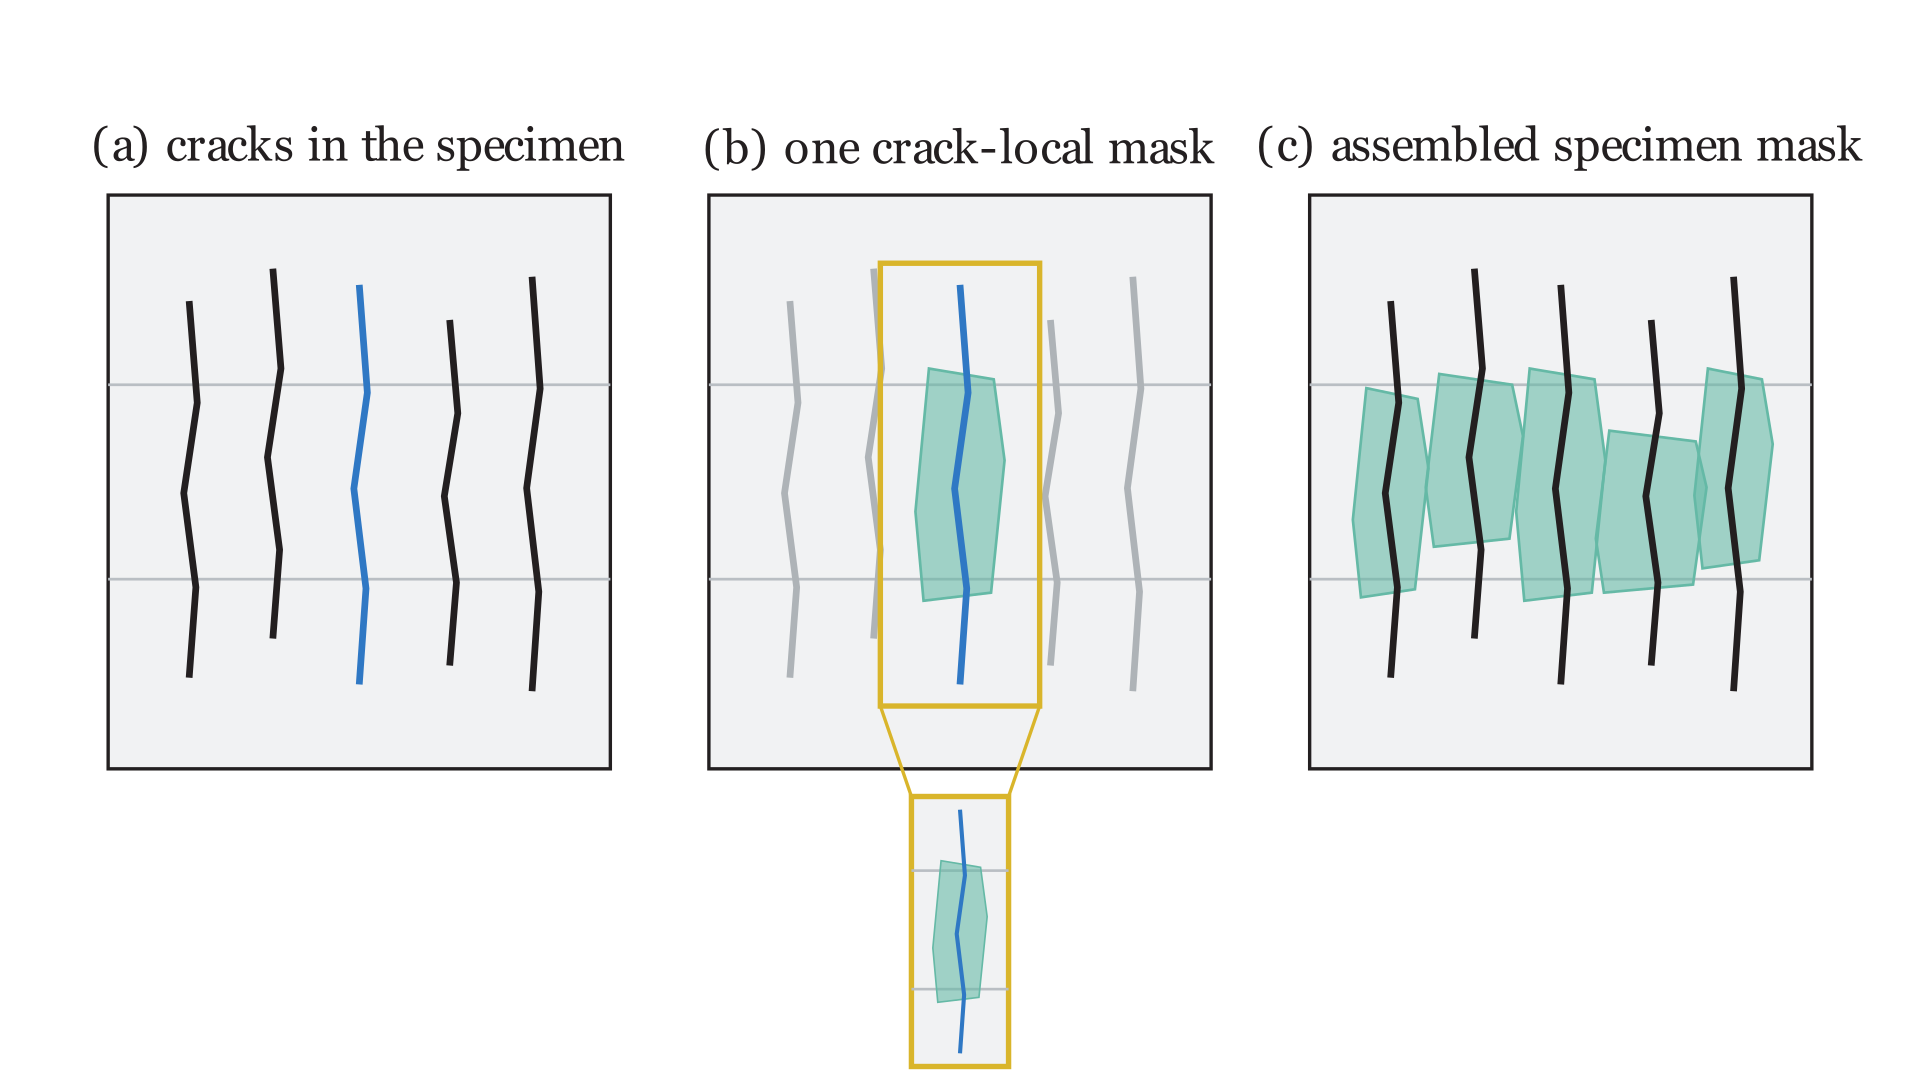
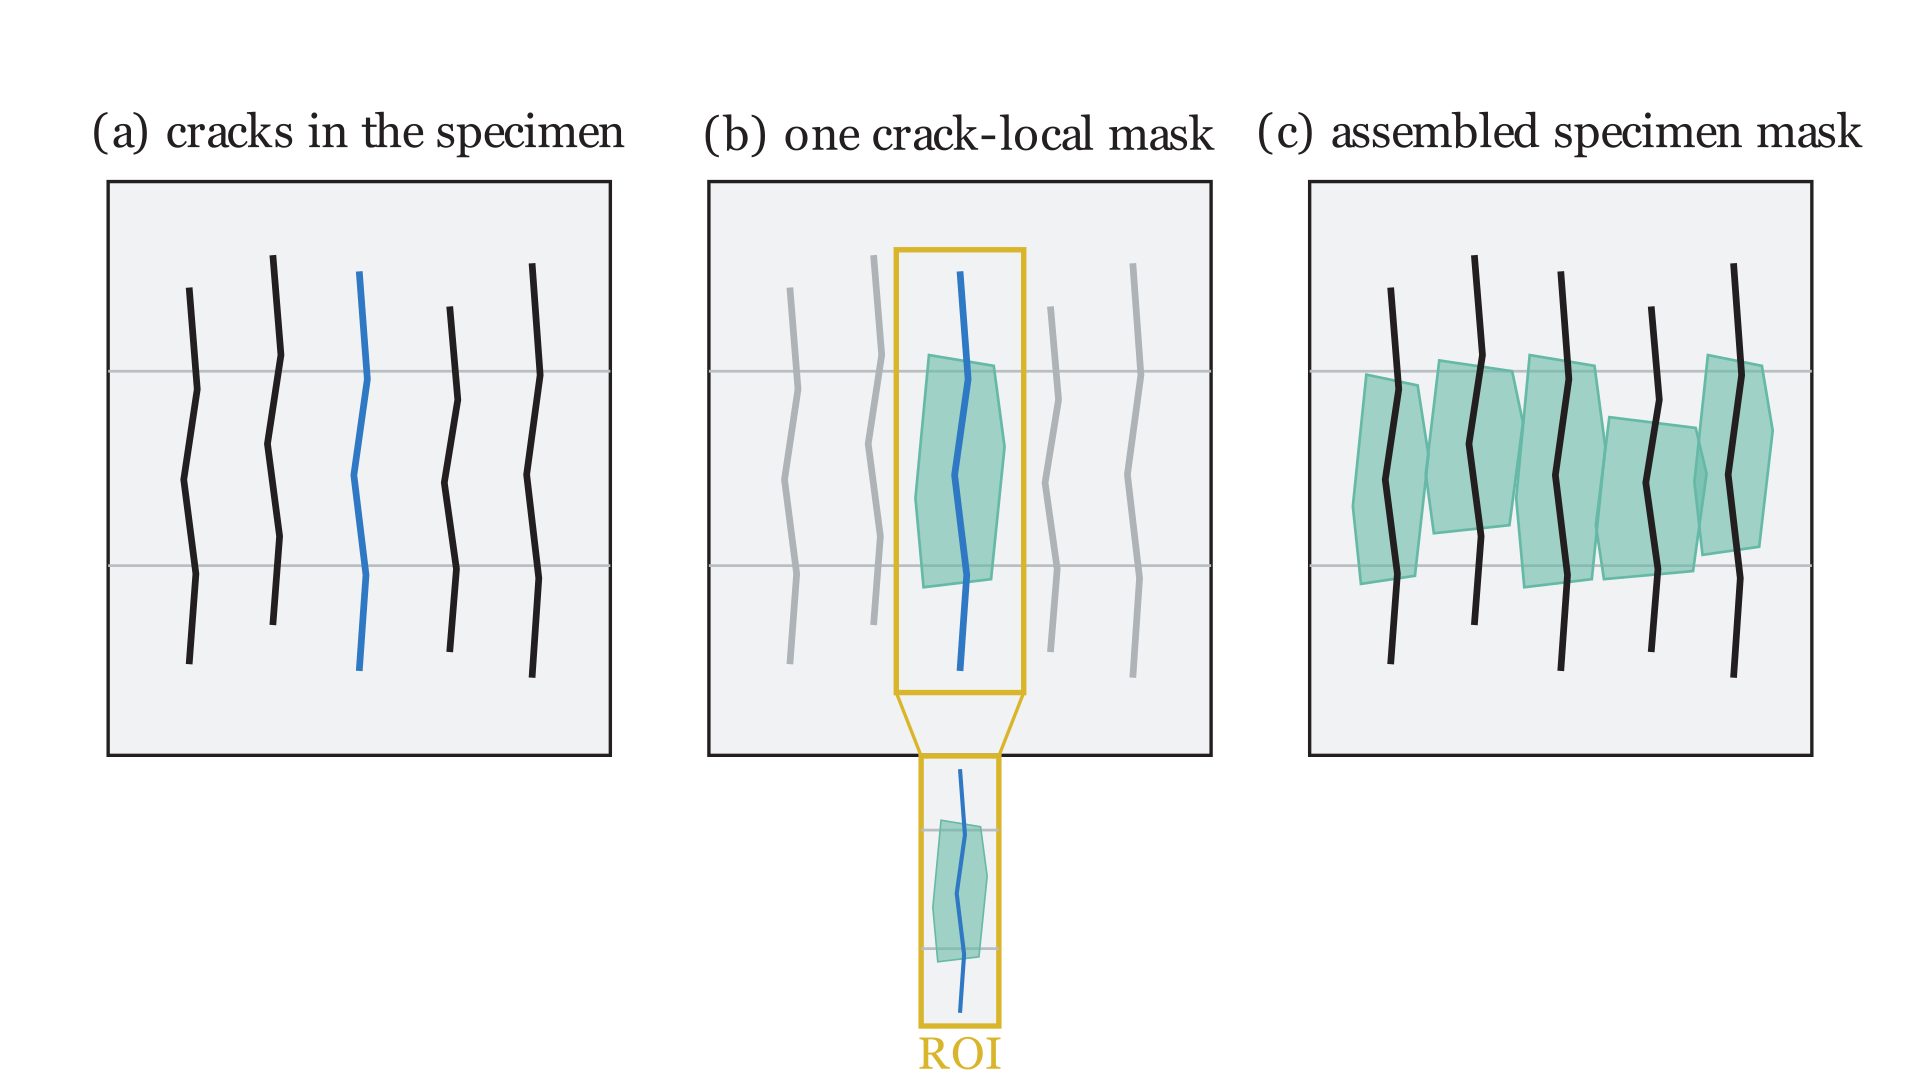
more updates to the docs

diff --git a/docs/source/Image_pre_processing.rst b/docs/source/Image_pre_processing.rst
@@ -50,6 +50,26 @@ This is on by default (``history_clamp=True``) and controlled by
 *entire* stack so far — or a rolling window that only looks back
 ``history_window_size`` frames).
 
+This is the same noise-suppression idea used by Bender et al. [Bender2021]_
+for crack detection in white-light imaging: without a clamp, each frame's
+noise level stays flat forever; with the running clamp, it decays and
+plateaus as more frames accumulate and pin down each pixel's true darkest
+value. The figure below shows this for DelaDect's own
+``apply_minimum_history`` on a small synthetic noisy stack (not a real
+specimen, fixed round blobs standing in for persistent damage): the top two
+rows are an unclamped vs. history-clamped image-strip comparison across the
+stack, the clamped row visibly cleaning up while the unclamped row stays
+equally noisy; the bottom-left panel is the background pixel-value
+histogram at a few points in the stack, narrowing and shifting down as
+history accumulates; the bottom-right panel tracks the pixel standard
+deviation across the whole stack, flat without the clamp and converging
+with it.
+
+.. image:: _static/normalization/history_clamp_noise.png
+   :alt: An unclamped vs. history-clamped image strip across the stack, plus pixel-value histograms narrowing as history accumulates and a standard-deviation-vs-frame plot converging with the history clamp but staying flat without it
+   :width: 720
+   :align: center
+
 Reference normalization
 ------------------------
 After the history clamp, each frame is compared to a **baseline** (a
@@ -147,6 +167,9 @@ API: ``preprocess_stack_to_disk``
        progress=False,
    )
 
+``history_mode="running"`` (above) is the history clamp described earlier
+under "History clamp".
+
 Returns ``{"cache_paths": [...]}``, one path per processed frame. Each
 cached ``.npz`` lives at ``<results>/<cache_dirname>/<key>/preprocess_%04d.npz``
 and stores:
@@ -188,4 +211,12 @@ Choosing a mode in practice
    troubleshooting order in :doc:`detection`'s "Troubleshooting" section --
    ``reference_skip`` is the first knob to try there too.
 
+References
+----------
+
+.. [Bender2021] Bender, J. J., Bak, B. L. V., Jensen, S. M., & Lindgaard, E.
+   (2021). Effect of variable amplitude block loading on intralaminar crack
+   initiation and propagation in multidirectional GFRP laminate.
+   *Composites Part B: Engineering*, 217, 108905.
+   `<https://doi.org/10.1016/j.compositesb.2021.108905>`_
 

diff --git a/docs/source/examples/delamination_multi_interface.rst b/docs/source/examples/delamination_multi_interface.rst
@@ -119,6 +119,19 @@ at the last sampled frame.
        reference_skip=2,
    )["cache_paths"]
 
+.. figure:: ../_static/examples/static_vs_rolling_median_preprocessing.png
+   :alt: Static vs rolling-median reference preprocessing compared on the same frame of Sample-3
+   :width: 100%
+   :align: center
+
+   Sample-3, frame 272. **(a)** the static baseline is fixed to the first
+   frame, so it never "absorbs" the delamination front. So the normalized
+   frame only shows one high-contrast band. **(b)** The
+   rolling-median baseline (window=7, skip=2) tracks recent frames, so it
+   partially absorbs the already-established front into the baseline itself.
+   This means that the normalized frame is now sensitive to the new damage
+   happening on a different layer (which lead to the darkening).
+
 
 2. Standalone edge delamination
 --------------------------------
@@ -205,19 +218,6 @@ mask of the interface directly above it.
 
    manifest = specimen.results_dir("config") / "specimen.json"
    save_specimen(specimen, manifest)
-
-.. figure:: ../_static/examples/static_vs_rolling_median_preprocessing.png
-   :alt: Static vs rolling-median reference preprocessing compared on the same frame of Sample-3
-   :width: 100%
-   :align: center
-
-   Sample-3, frame 272. **(a)** the static baseline is fixed to the first
-   frame, so it never "absorbs" the delamination front. So the normalized
-   frame only shows one high-contrast band. **(b)** The
-   rolling-median baseline (window=7, skip=2) tracks recent frames, so it
-   partially absorbs the already-established front into the baseline itself.
-   This means that the normalized frame is now sensitive to the new damage
-   happening on a different layer (which lead to the darkening).
 
 .. figure:: ../_static/examples/multi_interface_detection_outputs.png
    :alt: Standalone single-interface edge delamination compared with multi-interface delamination, frame 272
